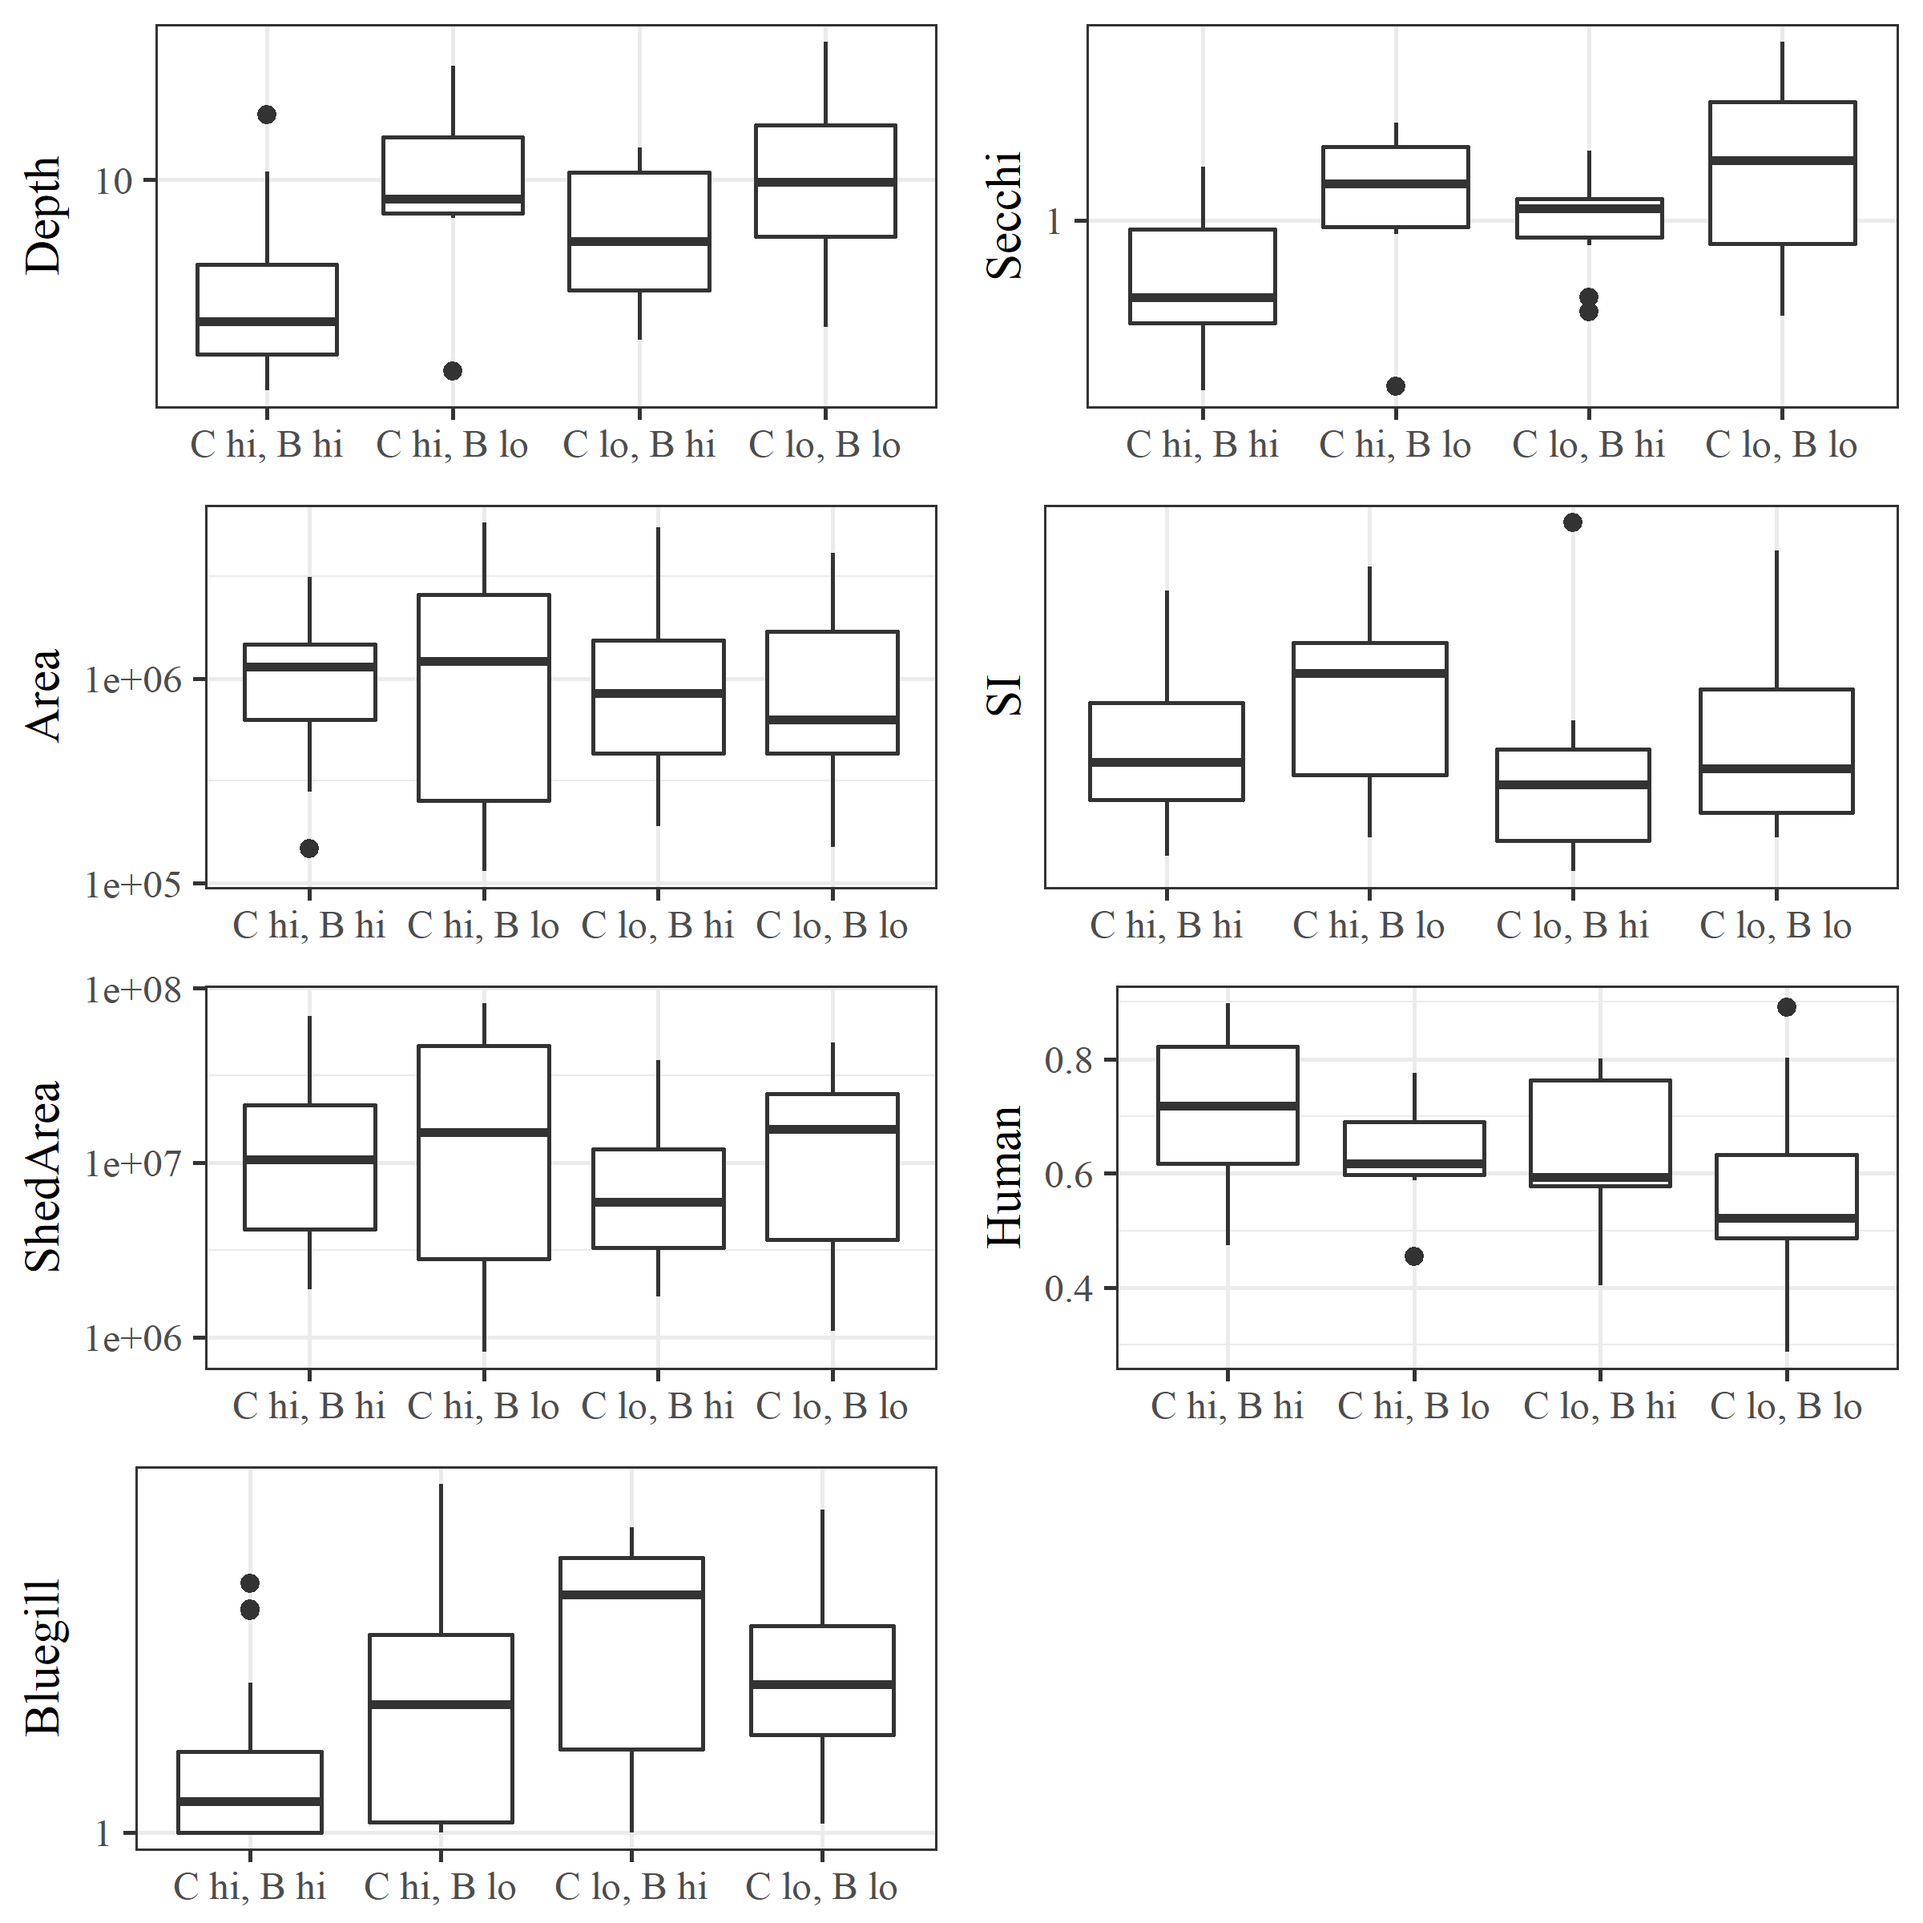
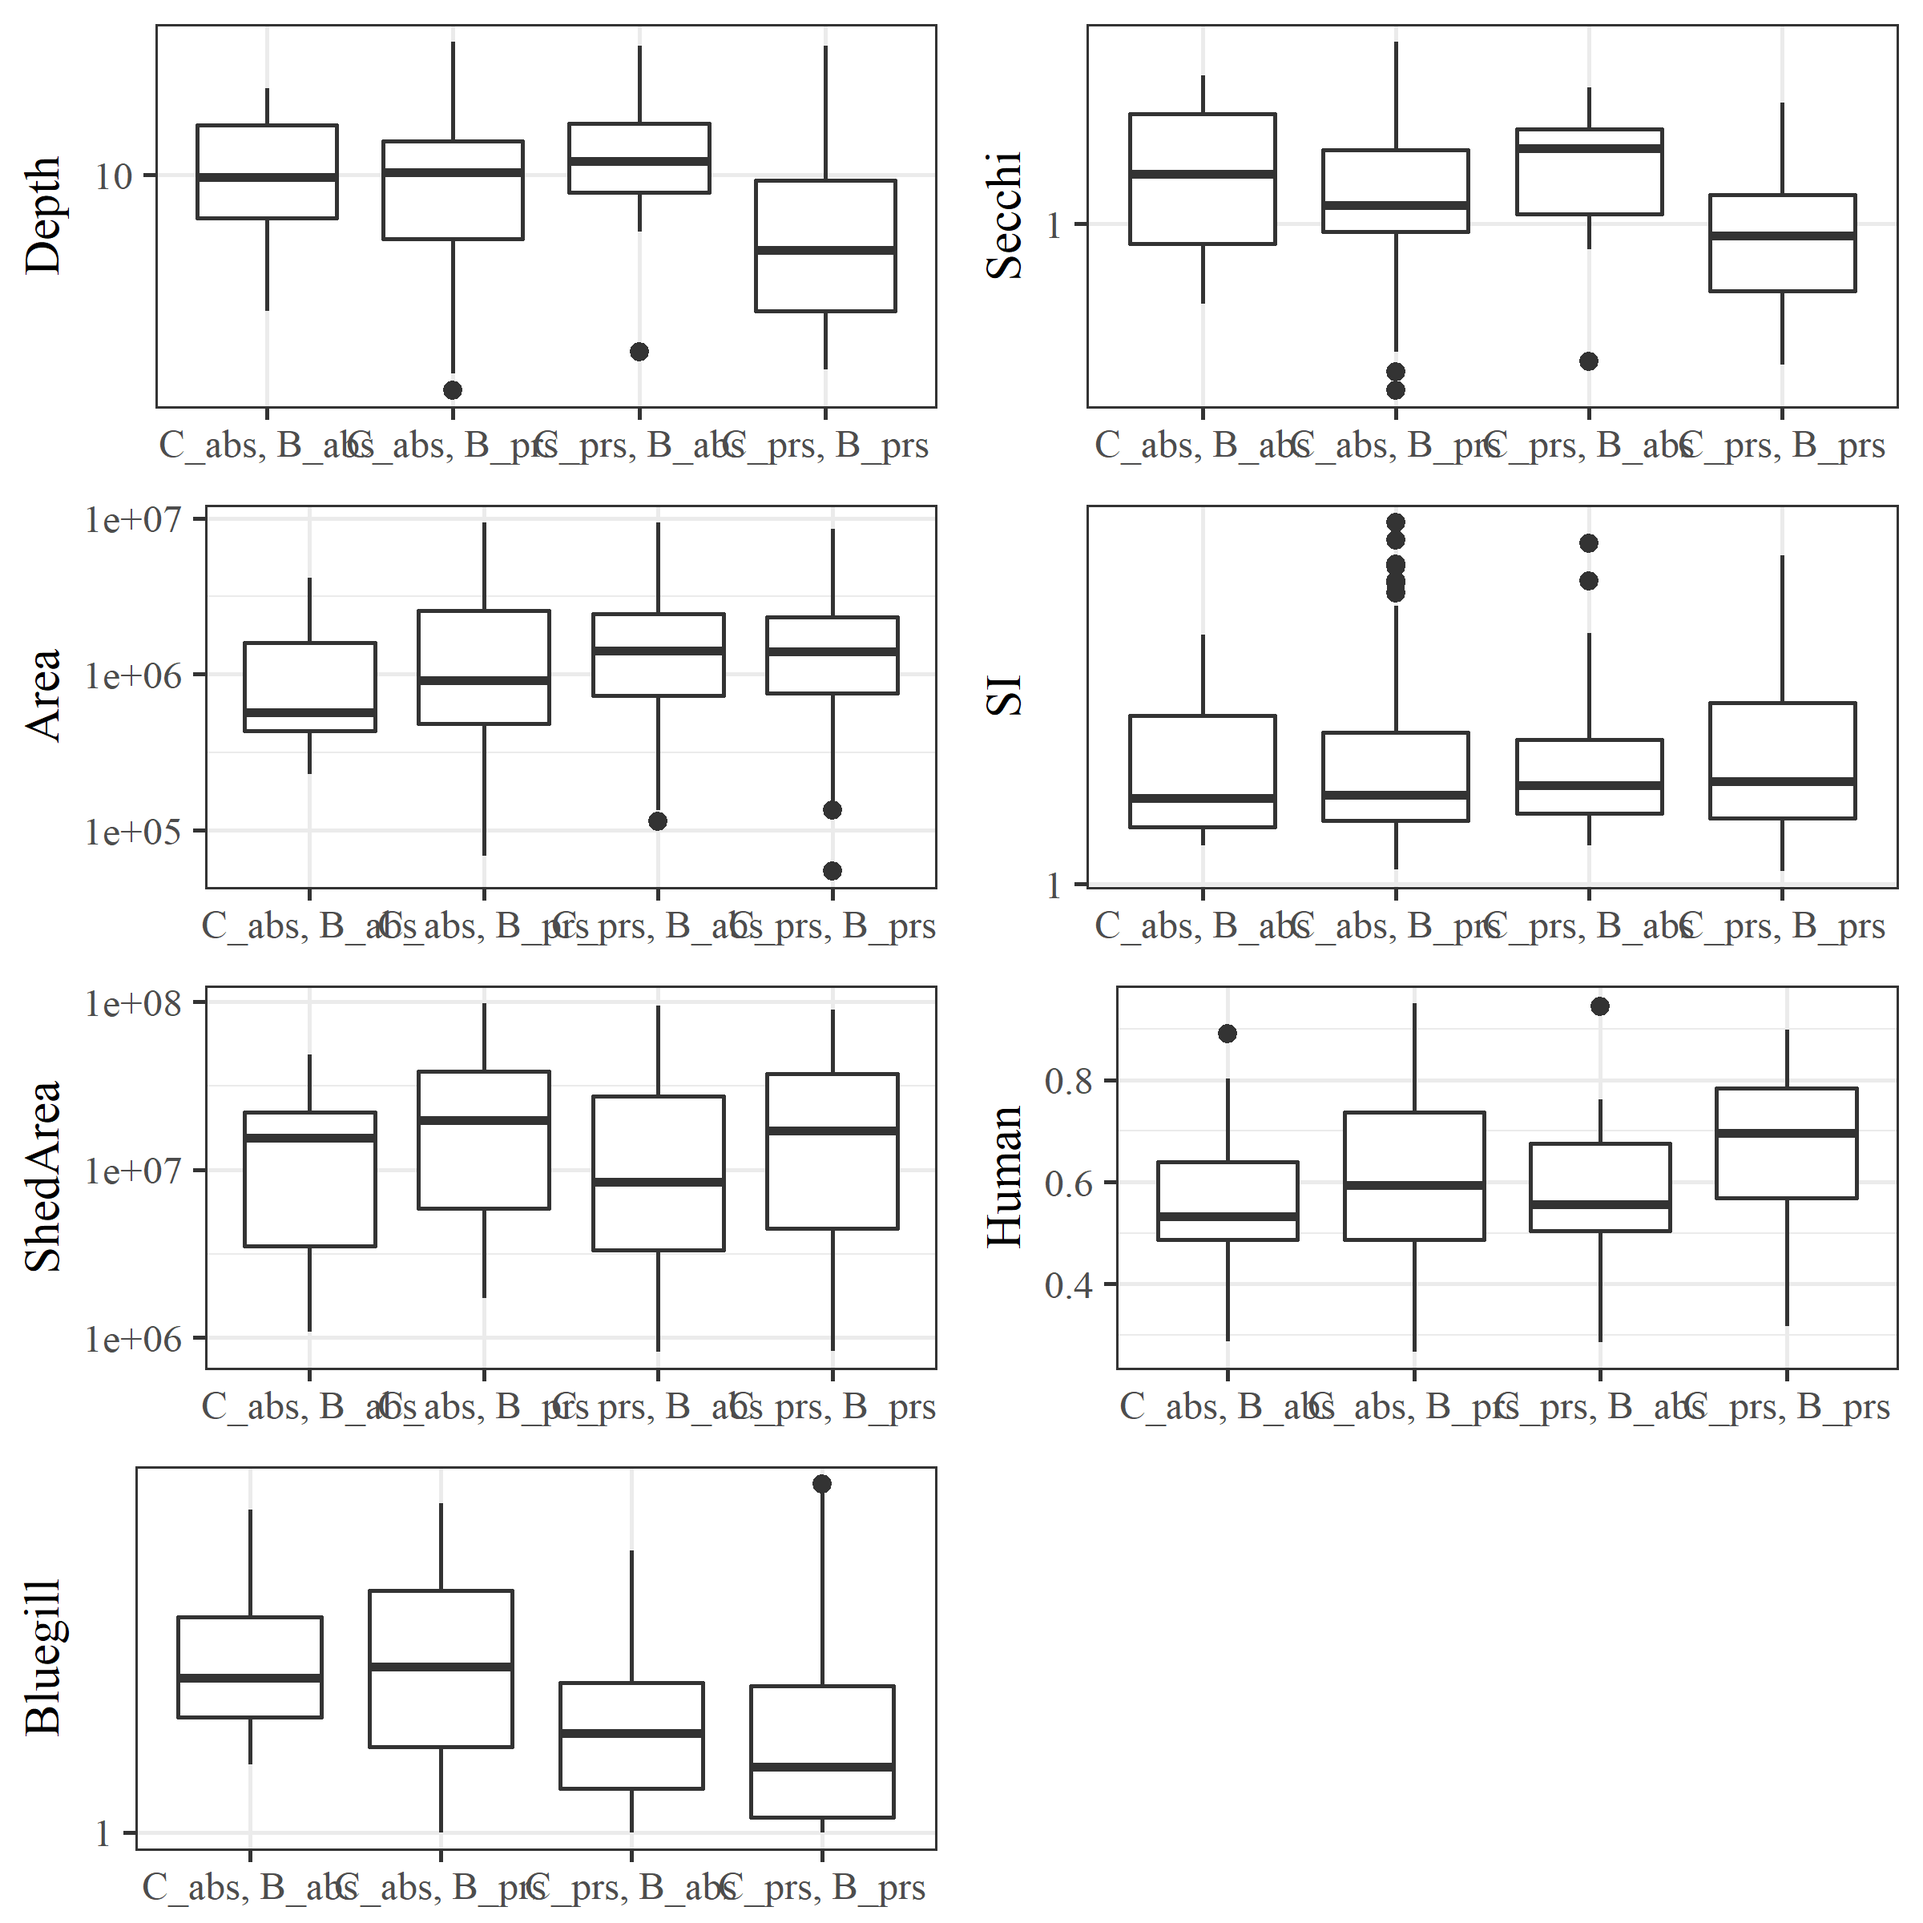
pca with p/a groups, no outliers

diff --git a/README.html b/README.html
@@ -312,32 +312,35 @@ $(document).ready(function () {
 <pre><code>## $Dim.1
 ## $Dim.1$quanti
 ##          correlation      p.value
-## SI         0.7706555 1.527340e-14
-## Area       0.6641292 6.658390e-10
-## Depth      0.6517109 1.754037e-09
-## Secchi     0.5841895 1.696595e-07
-## ShedArea   0.4705761 5.132600e-05
-## Human     -0.3830593 1.263445e-03
+## Area       0.7773476 2.020114e-50
+## SI         0.7528458 1.138095e-45
+## ShedArea   0.6081089 5.767018e-26
+## Depth      0.5769222 5.829393e-23
+## Secchi     0.4729209 6.044316e-15
+## Human     -0.2412841 1.457969e-04
 ## 
 ## 
 ## $Dim.2
 ## $Dim.2$quanti
 ##          correlation      p.value
-## ShedArea   0.5553123 8.880891e-07
-## Area       0.4699060 5.278181e-05
-## SI         0.3533325 3.120538e-03
-## Human      0.3062451 1.108885e-02
-## Depth     -0.5422913 1.782482e-06
-## Secchi    -0.6418560 3.667359e-09
+## ShedArea   0.5114765 1.334492e-17
+## Human      0.4935204 2.534842e-16
+## Area       0.3832484 6.366952e-10
+## SI         0.2823737 7.807990e-06
+## Depth     -0.6124036 2.093419e-26
+## Secchi    -0.7382769 4.217841e-43
 ## 
 ## 
 ## $Dim.3
 ## $Dim.3$quanti
 ##          correlation      p.value
-## Human      0.7866493 1.854787e-15
-## ShedArea   0.3783943 1.464301e-03
-## Secchi     0.3092748 1.027855e-02</code></pre>
+## Human      0.7819274 2.238068e-51
+## Depth      0.3551340 1.239968e-08
+## Secchi     0.2384996 1.747508e-04
+## ShedArea   0.2356655 2.096728e-04
+## SI        -0.2408795 1.497050e-04</code></pre>
 <p><img src="README_files/figure-html/Fig3.png" width="60%" style="display: block; margin: auto;" /></p>
+<p><img src="README_files/figure-html/Fig3_noellipse.png" width="60%" style="display: block; margin: auto;" /></p>
 <pre><code>## 
 ## Call:
 ## mrpp(dat = tomod, grouping = d$Group) 
@@ -347,12 +350,12 @@ $(document).ready(function () {
 ## 
 ## Class means and counts:
 ## 
-##       C hi, B hi C hi, B lo C lo, B hi C lo, B lo
-## delta 2.317      4.259      2.772      3.399     
-## n     26         7          11         24        
+##       C_abs, B_abs C_abs, B_prs C_prs, B_abs C_prs, B_prs
+## delta 2.856        3.569        3.144        2.859       
+## n     20           64           28           131         
 ## 
-## Chance corrected within-group agreement A: 0.0652 
-## Based on observed delta 2.972 and expected delta 3.18 
+## Chance corrected within-group agreement A: 0.03333 
+## Based on observed delta 3.079 and expected delta 3.185 
 ## 
 ## Significance of delta: 0.001 
 ## Permutation: free

diff --git a/README.md b/README.md
@@ -84,34 +84,38 @@ GP          SpeciesRichness   3.6 (3)        13.6      0 / 16
 ## $Dim.1
 ## $Dim.1$quanti
 ##          correlation      p.value
-## SI         0.7706555 1.527340e-14
-## Area       0.6641292 6.658390e-10
-## Depth      0.6517109 1.754037e-09
-## Secchi     0.5841895 1.696595e-07
-## ShedArea   0.4705761 5.132600e-05
-## Human     -0.3830593 1.263445e-03
+## Area       0.7773476 2.020114e-50
+## SI         0.7528458 1.138095e-45
+## ShedArea   0.6081089 5.767018e-26
+## Depth      0.5769222 5.829393e-23
+## Secchi     0.4729209 6.044316e-15
+## Human     -0.2412841 1.457969e-04
 ## 
 ## 
 ## $Dim.2
 ## $Dim.2$quanti
 ##          correlation      p.value
-## ShedArea   0.5553123 8.880891e-07
-## Area       0.4699060 5.278181e-05
-## SI         0.3533325 3.120538e-03
-## Human      0.3062451 1.108885e-02
-## Depth     -0.5422913 1.782482e-06
-## Secchi    -0.6418560 3.667359e-09
+## ShedArea   0.5114765 1.334492e-17
+## Human      0.4935204 2.534842e-16
+## Area       0.3832484 6.366952e-10
+## SI         0.2823737 7.807990e-06
+## Depth     -0.6124036 2.093419e-26
+## Secchi    -0.7382769 4.217841e-43
 ## 
 ## 
 ## $Dim.3
 ## $Dim.3$quanti
 ##          correlation      p.value
-## Human      0.7866493 1.854787e-15
-## ShedArea   0.3783943 1.464301e-03
-## Secchi     0.3092748 1.027855e-02
+## Human      0.7819274 2.238068e-51
+## Depth      0.3551340 1.239968e-08
+## Secchi     0.2384996 1.747508e-04
+## ShedArea   0.2356655 2.096728e-04
+## SI        -0.2408795 1.497050e-04
 ```
 
 <img src="README_files/figure-html/Fig3.png" width="60%" style="display: block; margin: auto;" />
+
+<img src="README_files/figure-html/Fig3_noellipse.png" width="60%" style="display: block; margin: auto;" />
 
 ```
 ## 
@@ -123,12 +127,12 @@ GP          SpeciesRichness   3.6 (3)        13.6      0 / 16
 ## 
 ## Class means and counts:
 ## 
-##       C hi, B hi C hi, B lo C lo, B hi C lo, B lo
-## delta 2.317      4.259      2.772      3.399     
-## n     26         7          11         24        
+##       C_abs, B_abs C_abs, B_prs C_prs, B_abs C_prs, B_prs
+## delta 2.856        3.569        3.144        2.859       
+## n     20           64           28           131         
 ## 
-## Chance corrected within-group agreement A: 0.0652 
-## Based on observed delta 2.972 and expected delta 3.18 
+## Chance corrected within-group agreement A: 0.03333 
+## Based on observed delta 3.079 and expected delta 3.185 
 ## 
 ## Significance of delta: 0.001 
 ## Permutation: free
